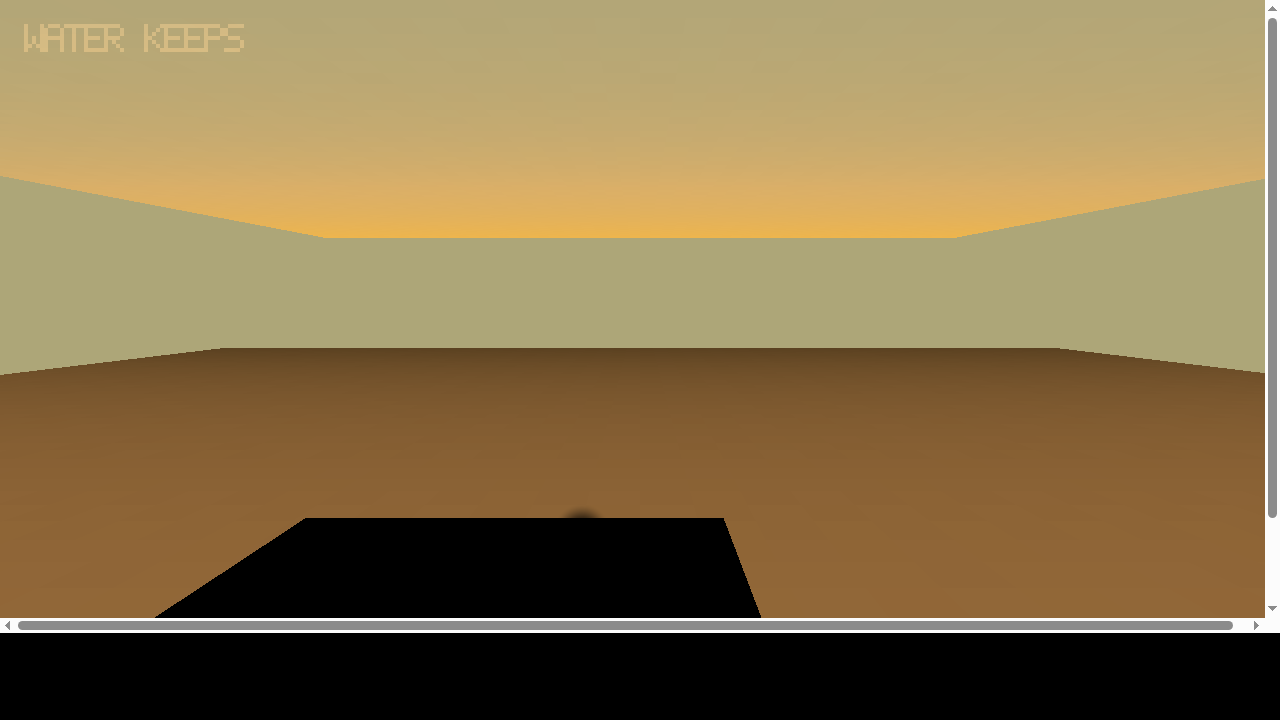
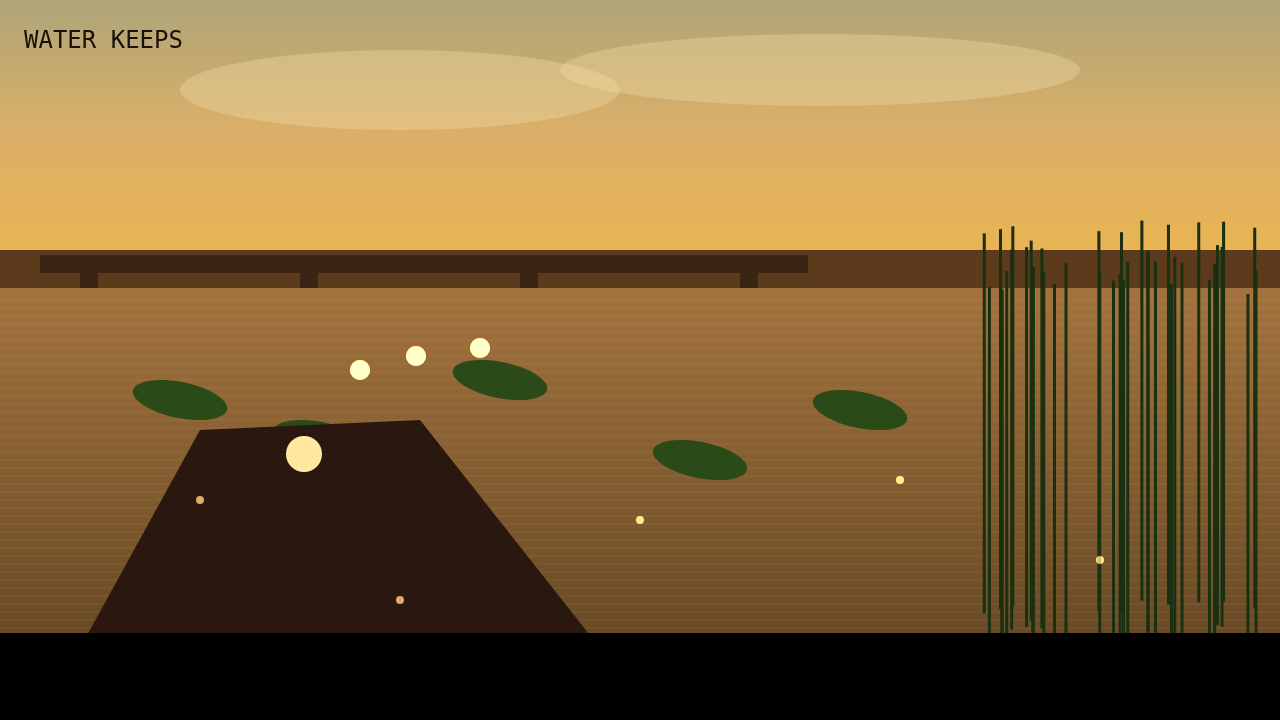
ujs: S0 分层 2d 重画(未过存在性门)
hide-scrollbars 1280x720.

diff --git a/ujs/plans/demo-v2/look-dev/water-keeps-s0.html b/ujs/plans/demo-v2/look-dev/water-keeps-s0.html
@@ -1,67 +1,77 @@
 <!DOCTYPE html>
 <html><head><meta charset="utf-8"/><title>S0</title>
-<style>html,body{margin:0;background:#000}canvas{display:block}</style>
+<style>
+html,body{margin:0;padding:0;overflow:hidden;width:1280px;height:720px;background:#000}
+canvas{display:block;width:1280px;height:720px}
+</style>
 </head>
 <body>
 <canvas id="c" width="1280" height="720"></canvas>
-<script type="module">
-import { createWebGLRenderer } from "../../../practice/uxe/renderer-webgl.js";
-import { Scene, PerspectiveCamera } from "../../../practice/uxe/scene.js";
-import { applyTestScene } from "../../../practice/uxe/test/test-init.js";
-import { MESH_PLANE, MESH_POINTS } from "../../../practice/uxe/meshes.js";
-
-function hex(h){
-  const n=parseInt(h.slice(1),16);
-  return [(n>>16)&255,(n>>8)&255,n&255,255];
+<script>
+const W=1280,H=720;
+const c=document.getElementById("c");
+const g=c.getContext("2d");
+function box(x,y,w,h,fill){ g.fillStyle=fill; g.fillRect(x,y,w,h); }
+function tri(pts,fill){ g.fillStyle=fill; g.beginPath(); g.moveTo(pts[0],pts[1]); for(let i=2;i<pts.length;i+=2) g.lineTo(pts[i],pts[i+1]); g.closePath(); g.fill(); }
+/* sky */
+const sky=g.createLinearGradient(0,0,0,288);
+sky.addColorStop(0,"#AEA579");
+sky.addColorStop(0.45,"#DAAF68");
+sky.addColorStop(1,"#EEB54C");
+g.fillStyle=sky; g.fillRect(0,0,W,288);
+/* clouds */
+g.globalAlpha=0.35; g.fillStyle="#F4E0A8";
+g.beginPath(); g.ellipse(400,90,220,40,0,0,6.28); g.fill();
+g.beginPath(); g.ellipse(820,70,260,36,0,0,6.28); g.fill();
+g.globalAlpha=1;
+/* far shore */
+g.fillStyle="#5B3B1C"; g.fillRect(0,250,W,80);
+/* bridge */
+g.fillStyle="#3A2414"; g.fillRect(40,255,768,18);
+g.fillRect(80,273,18,50); g.fillRect(300,273,18,50); g.fillRect(520,273,18,50); g.fillRect(740,273,18,50);
+/* water mirror */
+const wat=g.createLinearGradient(0,288,0,720);
+wat.addColorStop(0,"#A3733F");
+wat.addColorStop(1,"#594020");
+g.fillStyle=wat; g.fillRect(0,288,W,432);
+g.strokeStyle="rgba(238,181,76,0.15)";
+for(let y=300;y<700;y+=8){ g.beginPath(); g.moveTo(0,y); g.lineTo(W,y); g.stroke(); }
+/* lily */
+g.fillStyle="#2A4A18";
+[[180,400],[320,440],[500,380],[700,460],[860,410]].forEach(([x,y])=>{
+  g.beginPath(); g.ellipse(x,y,48,18,0.2,0,6.28); g.fill();
+});
+/* reeds */
+g.fillStyle="#1A3010";
+for(let i=0;i<40;i++){
+  const x=980+Math.random()*280;
+  g.fillRect(x,220+Math.random()*80,3,380);
 }
-function grad(w,h,stops){
-  const c=document.createElement("canvas");
-  c.width=w; c.height=h;
-  const g=c.getContext("2d");
-  const lg=g.createLinearGradient(0,0,0,h);
-  for(const s of stops) lg.addColorStop(s[0], s[1]);
-  g.fillStyle=lg; g.fillRect(0,0,w,h);
-  return g.getImageData(0,0,w,h).data;
-}
-function sil(w,h,fn){
-  const a=new Uint8ClampedArray(w*h*4);
-  for(let y=0;y<h;y++) for(let x=0;x<w;x++){
-    const on=fn(x/w,y/h);
-    const i=(y*w+x)*4;
-    a[i]=10; a[i+1]=6; a[i+2]=8; a[i+3]=on?255:0;
-  }
-  return a;
-}
-
-(async()=>{
-  const canvas=document.getElementById("c");
-  const r=createWebGLRenderer(canvas,{antialias:false});
-  const scene=new Scene();
-  applyTestScene(scene,[0.68,0.65,0.47,1]);
-  scene.fog.density=0;
-  const sky=grad(64,64,[[0,"#AEA579"],[0.45,"#DAAF68"],[1,"#EEB54C"]]);
-  const water=grad(64,64,[[0,"#A3733F"],[1,"#594020"]]);
-  const textures=[
-    {id:1,w:64,h:64,rgba:sky},
-    {id:2,w:64,h:64,rgba:water}
-  ];
-  /* screen quads via ortho POINTS? use planes in world then camera */
-  const cam=new PerspectiveCamera(0.9,0.05,80);
-  cam.setEye(0,2.2,8); cam.setTarget(0,1.2,-4);
-  const skyC=scene.instances("sky",1,[1,1,1]);
-  skyC.meshId=MESH_PLANE; skyC.mapId=1; skyC.count=1;
-  skyC.xyz.set([0,6,-20]); skyC.scale[0]=40;
-  const wC=scene.instances("w",1,[1,1,1]);
-  wC.meshId=MESH_PLANE; wC.mapId=2; wC.count=1;
-  wC.xyz.set([0,-0.2,-8]); wC.scale[0]=40;
-  const bow=scene.instances("bow",1,[0.36,0.23,0.11]);
-  bow.meshId=MESH_PLANE; bow.count=1; bow.xyz.set([-1.2,0.1,3]); bow.scale[0]=4;
-  const lamp=scene.instances("lamp",1,[1,0.91,0.63]);
-  lamp.meshId=MESH_POINTS; lamp.count=1; lamp.alphaMode=1; lamp.billboard=1;
-  lamp.xyz.set([-0.4,0.6,3]); lamp.scale[0]=0.4;
-  scene.text("WATER KEEPS", 24, 24, 4, [0.12,0.08,0.05]);
-  r.render(scene,cam,textures);
-  document.title="S0_OK";
-})().catch(e=>{document.title="S0_ERR"; console.error(e);});
+/* boat bow */
+g.fillStyle="#2A1810";
+tri([80,648, 600,648, 420,420, 200,430], "#2A1810");
+/* bow lamp additive-ish */
+g.globalCompositeOperation="lighter";
+g.fillStyle="rgba(255,232,160,0.9)";
+g.beginPath(); g.arc(304,454,18,0,6.28); g.fill();
+/* lotus lamps */
+[[416,356],[480,348],[360,370]].forEach(([x,y])=>{
+  g.beginPath(); g.arc(x,y,10,0,6.28); g.fill();
+});
+/* sparks */
+g.fillStyle="rgba(255,208,128,0.7)";
+[[200,500],[640,520],[900,480],[1100,560],[400,600]].forEach(([x,y])=>{
+  g.beginPath(); g.arc(x,y,4,0,6.28); g.fill();
+});
+g.globalCompositeOperation="source-over";
+/* title 5x7 via fillText fallback until scene.text overlay */
+g.fillStyle="#1A1008";
+g.font="24px monospace";
+g.fillText("WATER KEEPS",24,48);
+/* reflection placeholder */
+g.globalAlpha=0.25; g.fillStyle="#2A1810";
+tri([80,648, 600,648, 420,720, 200,720], "#2A1810");
+g.globalAlpha=1;
+document.title="S0_OK";
 </script>
 </body></html>
